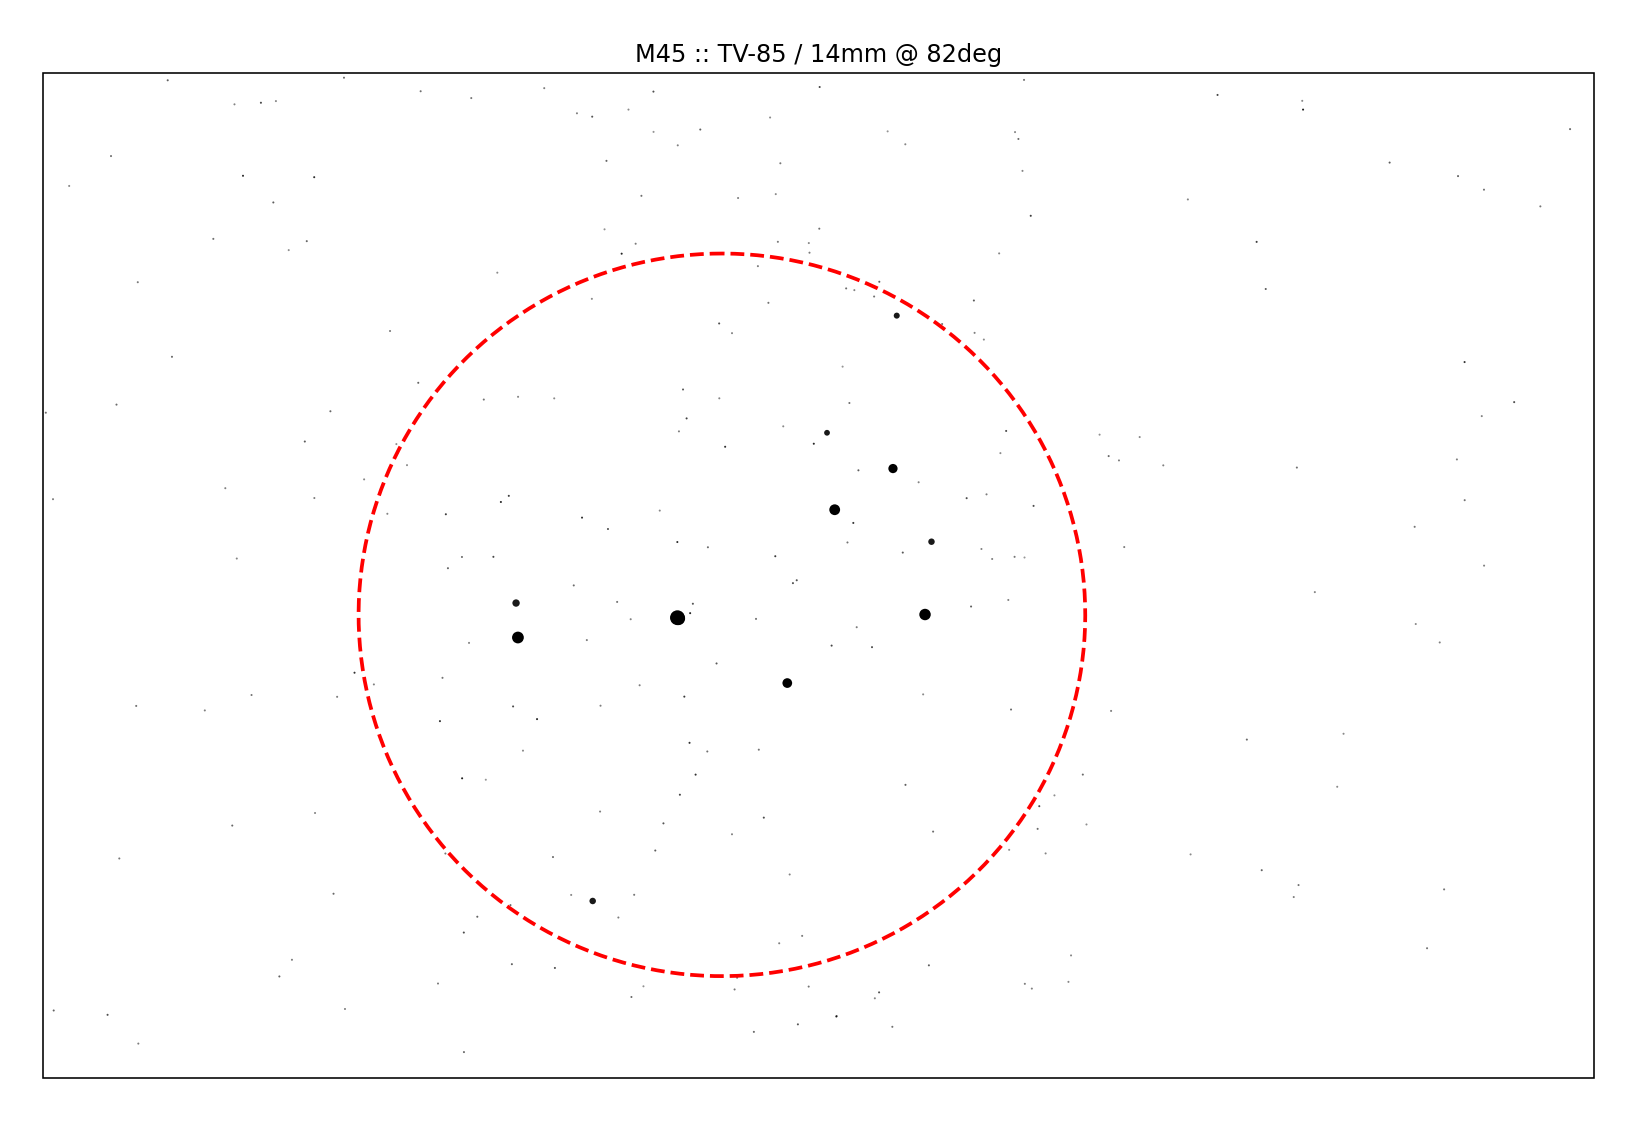
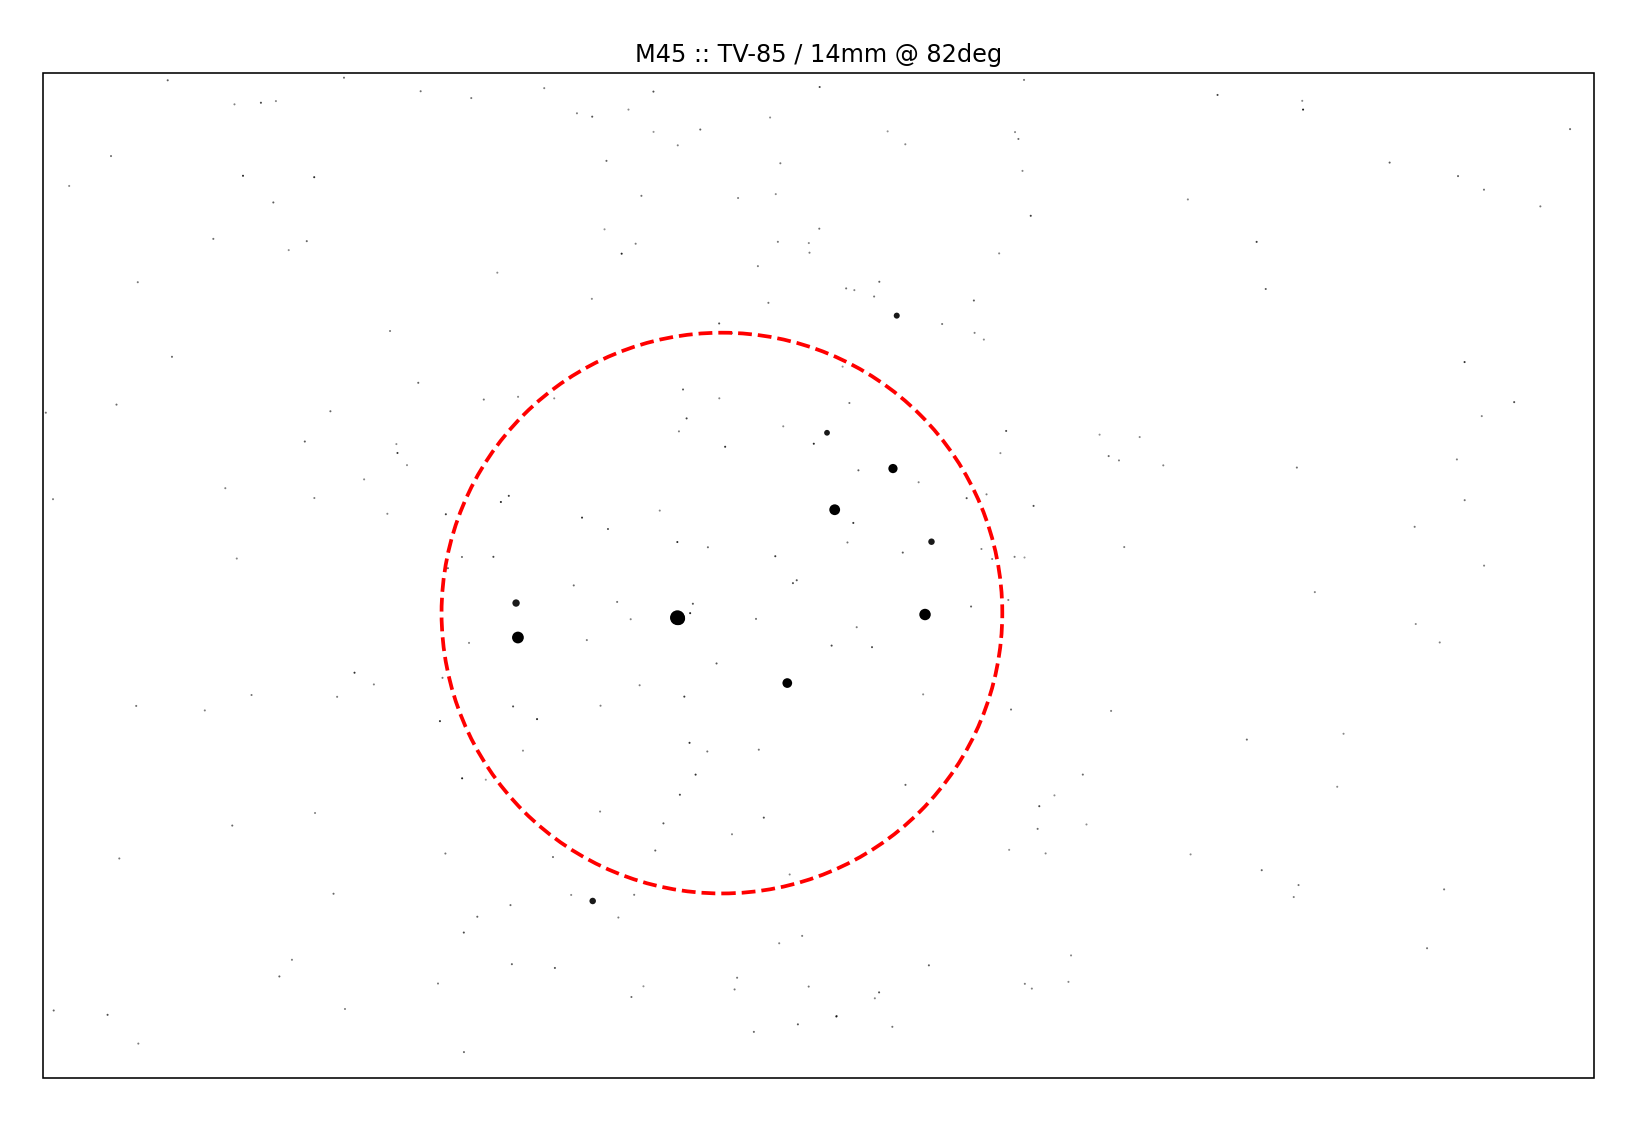
hash

diff --git a/tests/test_map.py b/tests/test_map.py
@@ -176,5 +176,5 @@ def test_map_plot_scope_bino_fov():
     p.ax.set_title("M45 :: TV-85 / 14mm @ 82deg, 10x binos @ 65deg")
     p.export(filename, padding=0.3)
 
-    assert dhash(filename) == "0aa4d29a9ad2a480"
-    assert colorhash(filename) == "07200030000"
+    assert dhash(filename) == "0288a6dadaa68880"
+    assert colorhash(filename) == "07200038000"
